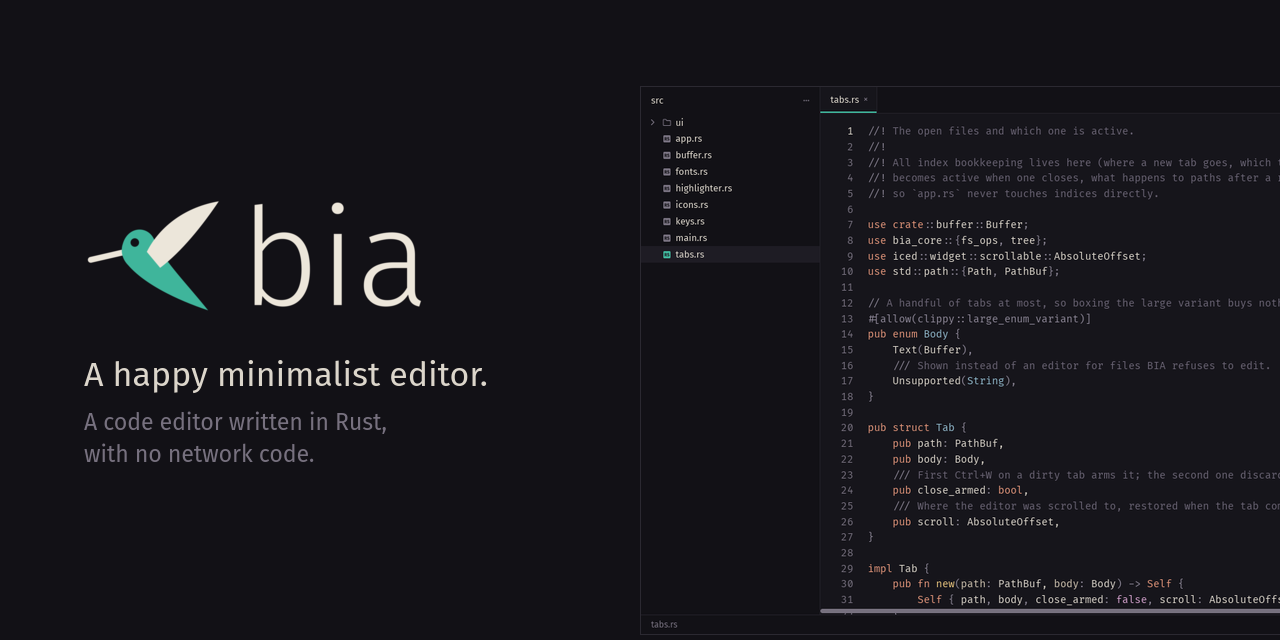
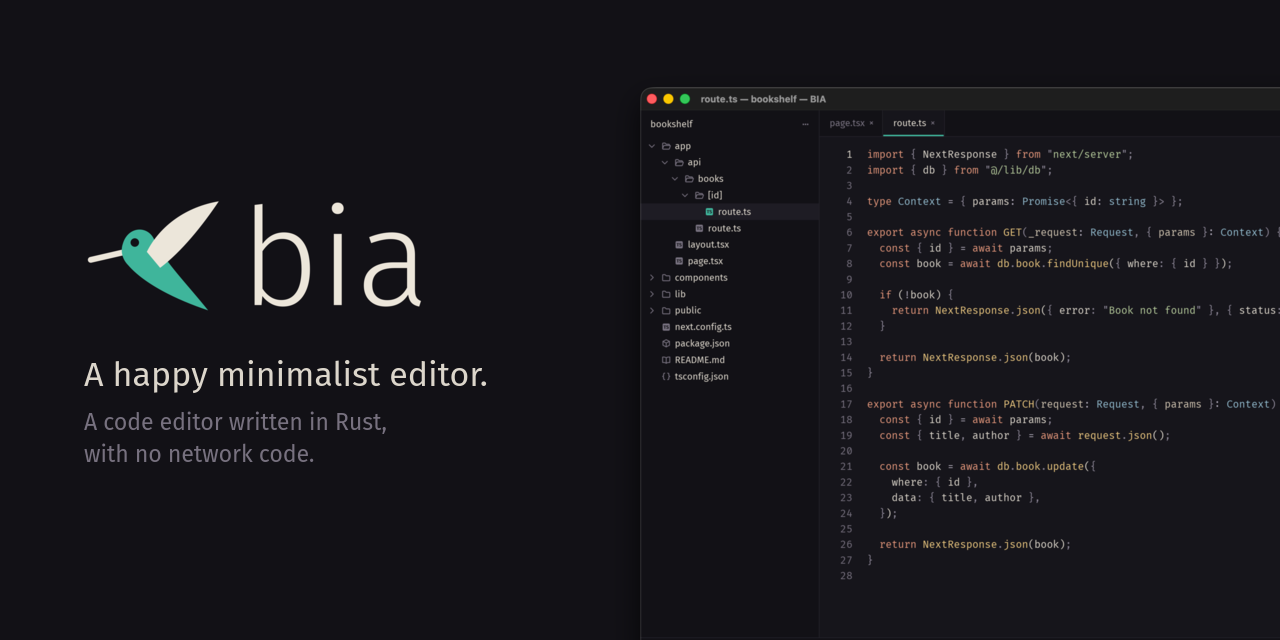
Use the macOS screenshot in the README and the social preview

diff --git a/tools/make_social_preview.py b/tools/make_social_preview.py
@@ -16,7 +16,6 @@ OUT = ROOT / "docs" / "social-preview.png"
 
 # Colors from the Noite theme (assets/themes/noite.json).
 PANEL = "#121116"
-BORDER = "#2b2931"
 TEXT = "#dcd6cb"
 MUTED = "#77717f"
 INK = "#ece6da"
@@ -46,10 +45,10 @@ def main():
                 "-fill", MUTED, "-pointsize", "23",
                 "-annotate", "+84+430", "A code editor written in Rust,",
                 "-annotate", "+84+462", "with no network code.",
-                # The screenshot runs off the right edge.
-                "(", str(ROOT / "docs" / "screenshot.png"), "-resize", "72%",
-                "-bordercolor", BORDER, "-border", "1", ")",
-                "-geometry", "+640+86", "-composite",
+                # The screenshot (a macOS window with its shadow) runs off the
+                # right edge.
+                "(", str(ROOT / "docs" / "screenshot.png"), "-resize", "930x", ")",
+                "-geometry", "+600+60", "-composite",
                 "-depth", "8",
                 str(OUT),
             ],

diff --git a/README.pt-BR.md b/README.pt-BR.md
@@ -13,7 +13,7 @@ O BIA é um editor de código pequeno para Linux, macOS e Windows, feito em Rust
 Árvore de arquivos, destaque de sintaxe, prévia de Markdown, temas e um arquivo de
 configuração. Só isso.
 
-![O BIA editando um dos próprios arquivos](docs/screenshot.png)
+![O BIA no macOS, com um projeto Next.js aberto](docs/screenshot.png)
 
 ## Instalação
 

diff --git a/README.md b/README.md
@@ -12,7 +12,7 @@
 BIA is a small code editor for Linux, macOS and Windows, written in Rust. File tree,
 syntax highlighting, Markdown preview, themes and one settings file. That's it.
 
-![BIA editing one of its own source files](docs/screenshot.png)
+![BIA on macOS, with a Next.js project open](docs/screenshot.png)
 
 ## Install
 
